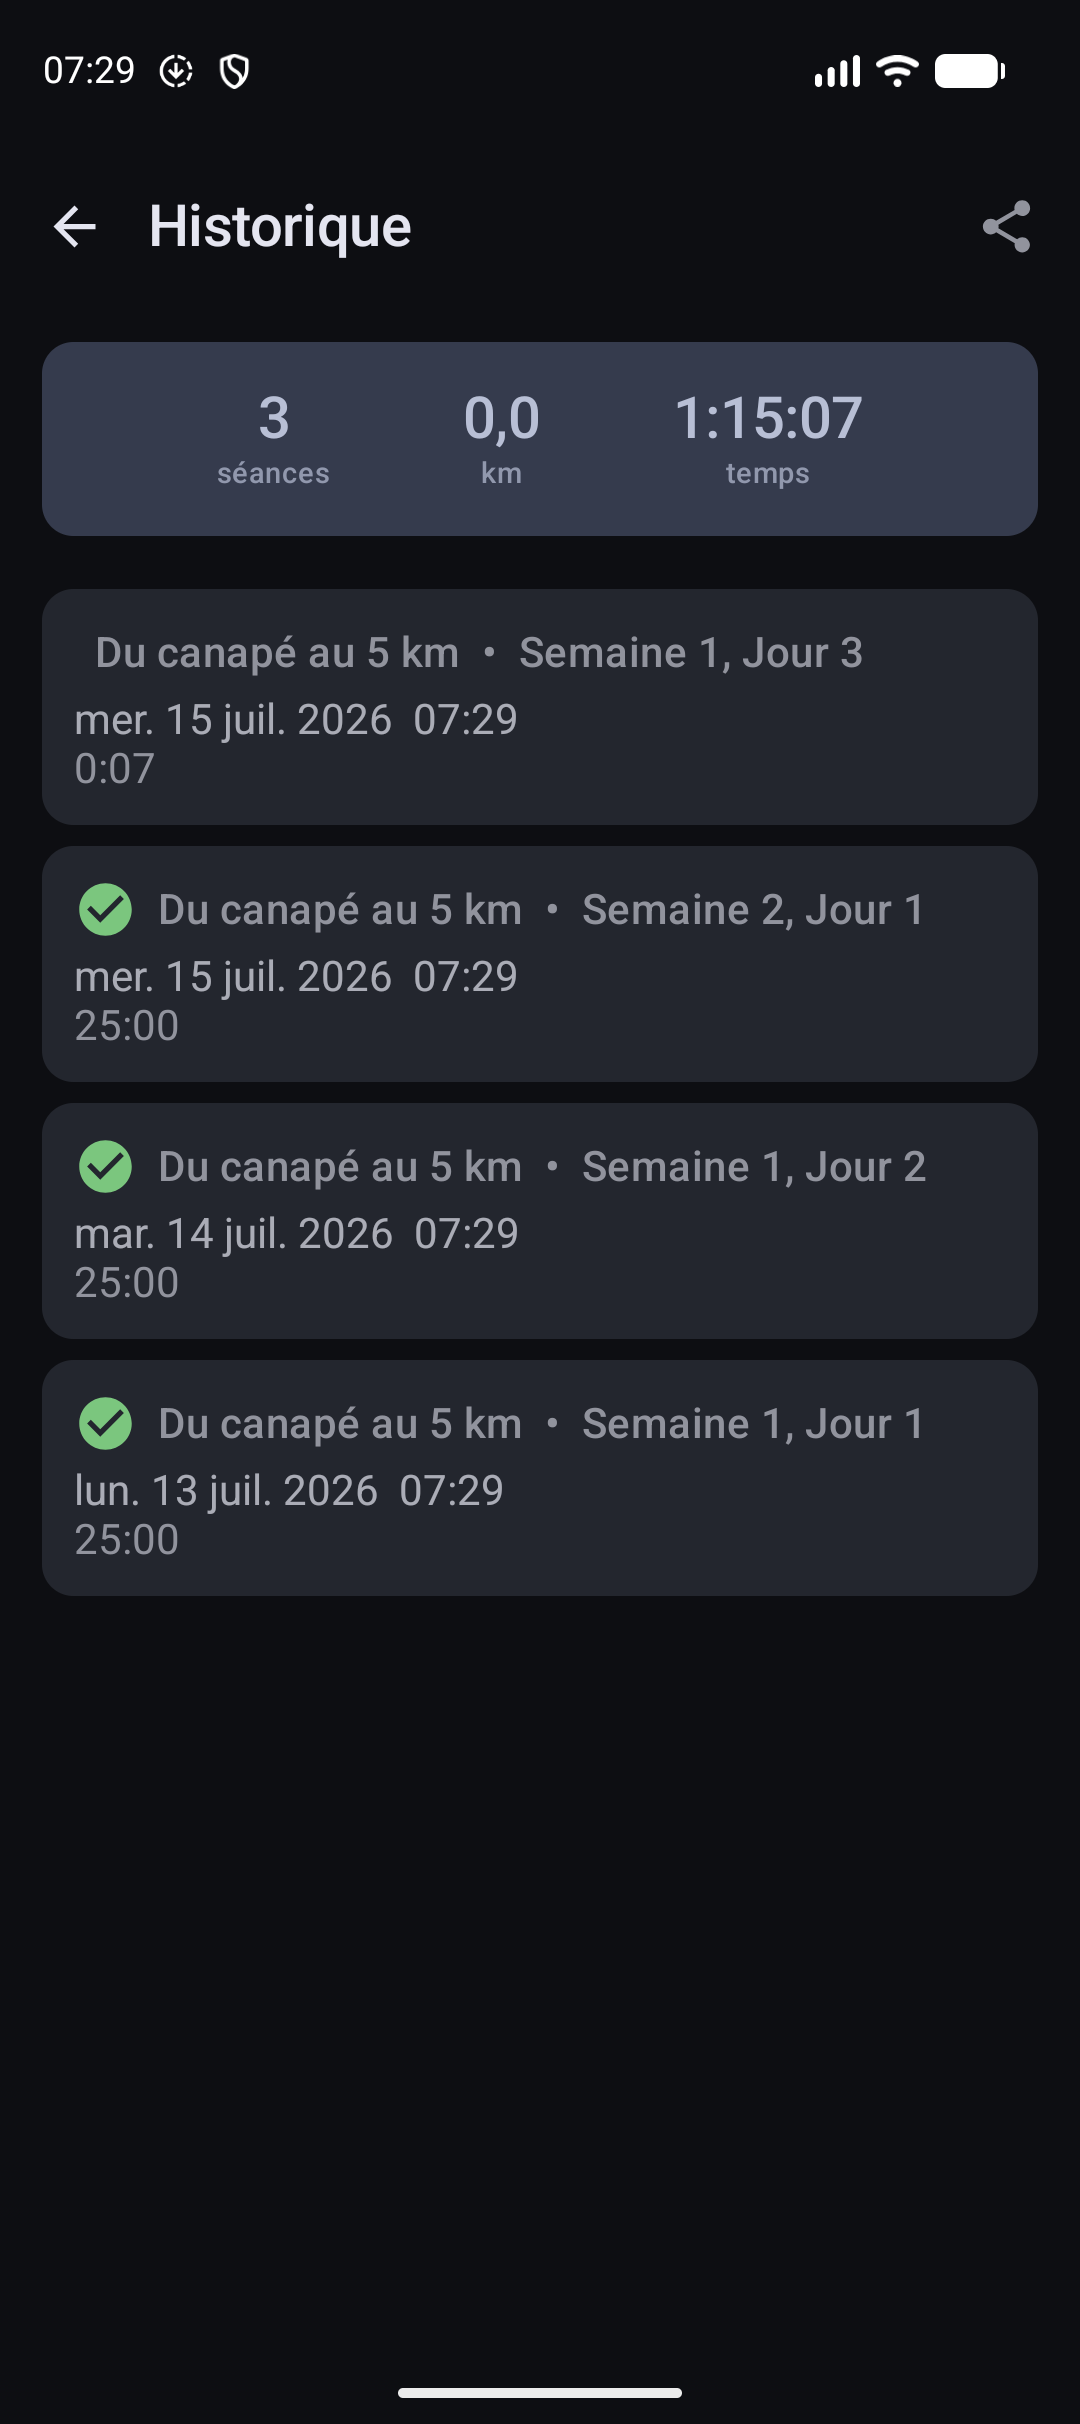
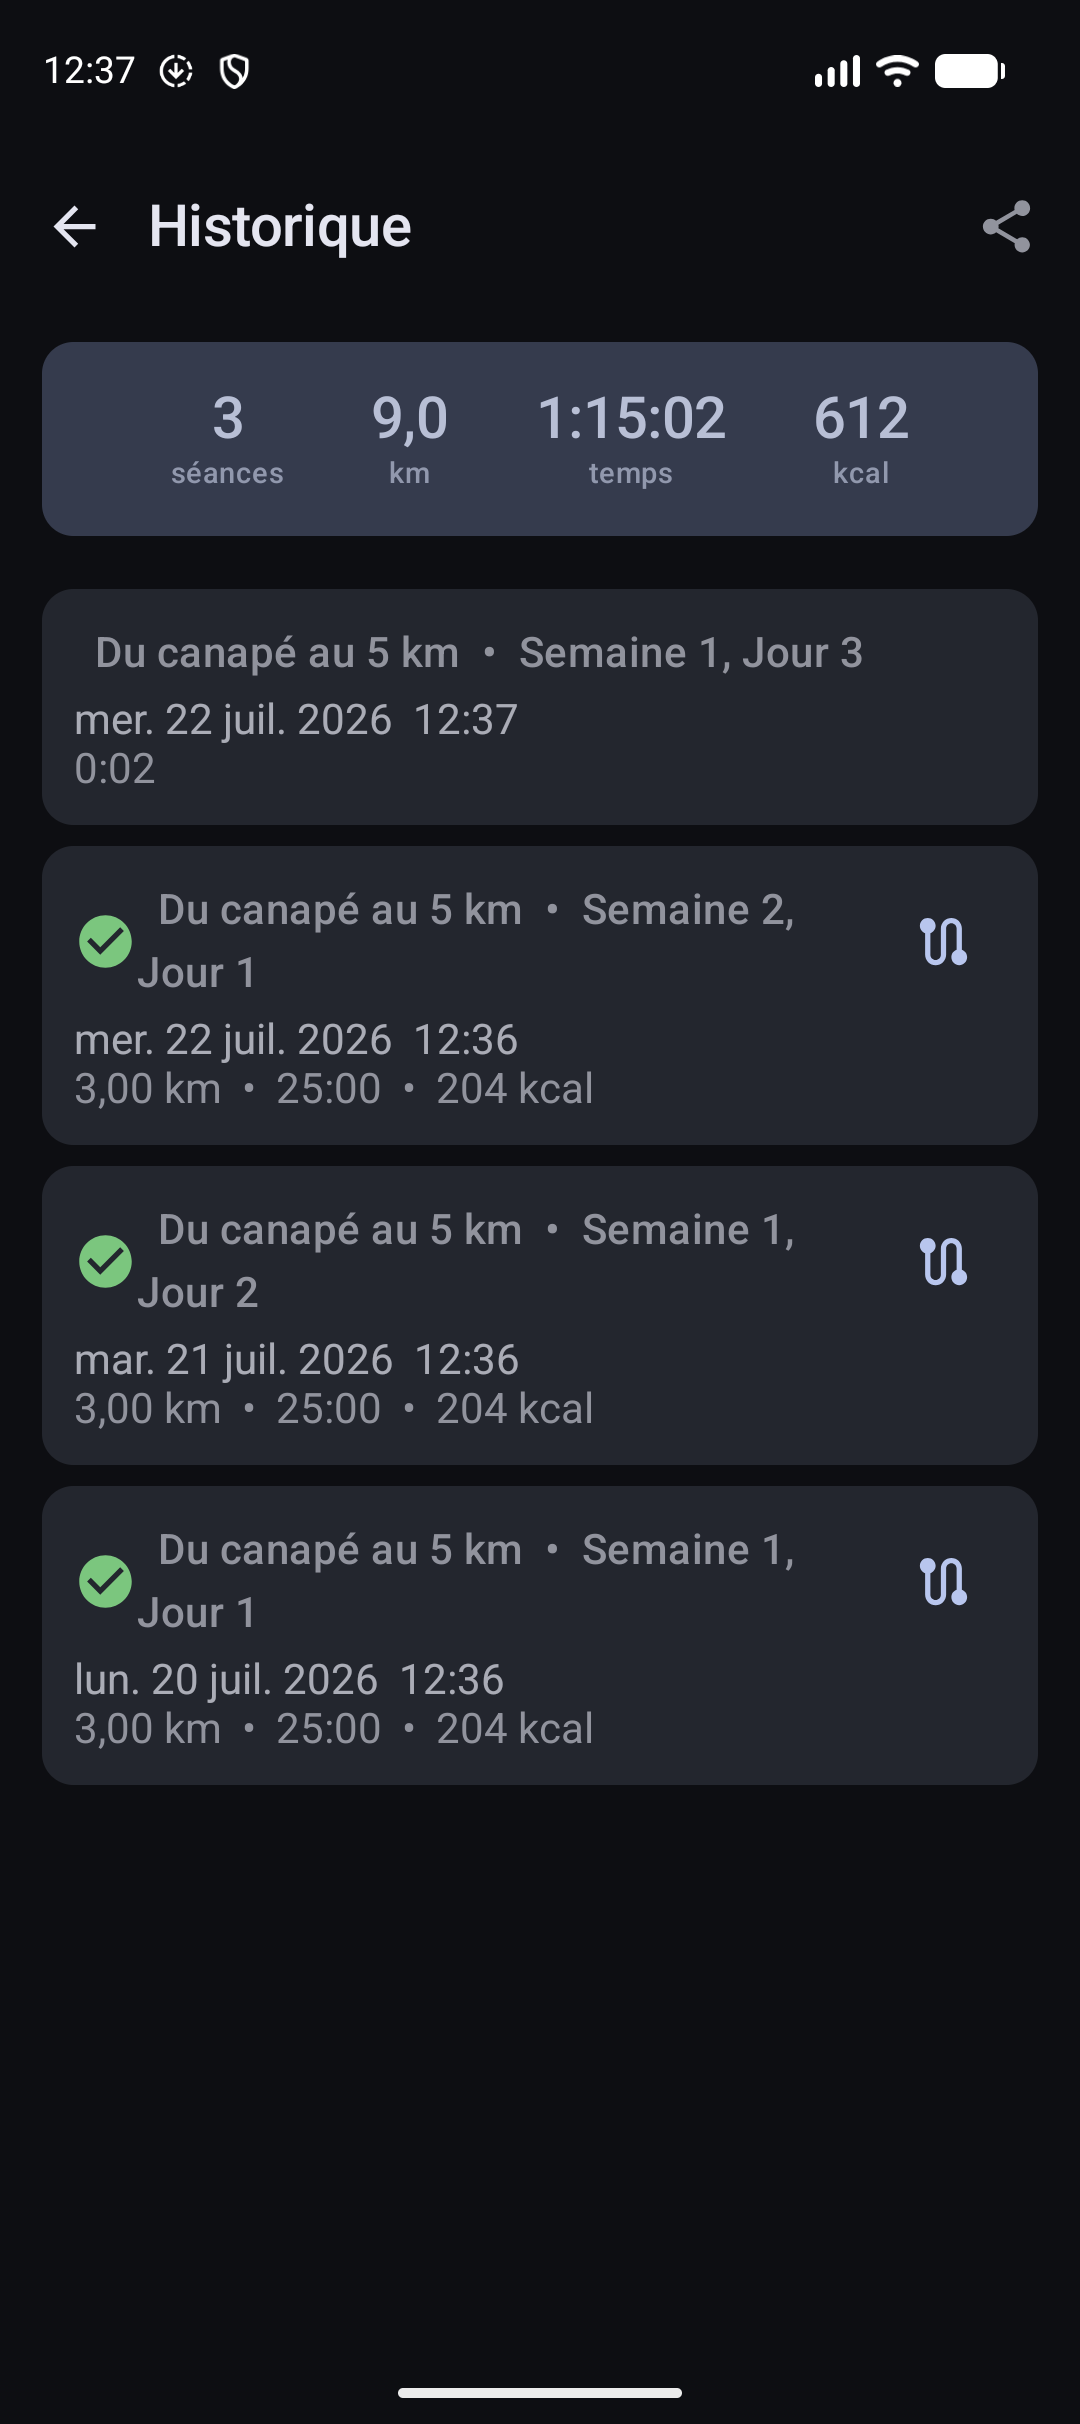
Recapture 05_history store screenshot for all locales
Seeds demo sessions with real distance and a fixed demo weight so the
new calories-burned feature shows up in the store screenshot (per-
session and aggregate kcal), instead of the treadmill-style zero-
distance sessions that predated it.

01-04, 06, and 07 were also regenerated by this run but discarded:
01_home hit pre-existing capture flakiness (blank frame for en-US,
missing streak banner for ru-RU) unrelated to this change, and
06/07 don't scroll far enough to reach the new guide entry or
weight field, so they only differed by the status-bar clock.

diff --git a/app/src/androidTest/kotlin/com/hackerapps/c2k/screenshots/ScreenshotTest.kt b/app/src/androidTest/kotlin/com/hackerapps/c2k/screenshots/ScreenshotTest.kt
@@ -16,6 +16,7 @@ import com.hackerapps.c2k.C2KApp
 import com.hackerapps.c2k.R
 import com.hackerapps.c2k.data.db.entity.WorkoutSessionEntity
 import com.hackerapps.c2k.data.prefs.UserPreferences
+import com.hackerapps.c2k.data.prefs.WeightUnit
 import com.hackerapps.c2k.ui.MainActivity
 import kotlinx.coroutines.flow.first
 import kotlinx.coroutines.runBlocking
@@ -102,12 +103,19 @@ class ScreenshotTest {
             // top of the workout screen the first time a workout starts, right where 04_workout
             // gets captured.
             prefs.setBatteryPromptDismissed()
+            // Pinned for the same reason as the countdown warnings above — without this, leftover
+            // weight/unit values from manual on-device testing bleed into 07_settings, and
+            // 05_history's calorie figures would be non-deterministic across runs.
+            prefs.setWeightKg(70f)
+            prefs.setWeightUnit(WeightUnit.KG)
             seedHistory()
         }
     }
 
     // A 3-day streak plus recent-workout history, while leaving Week 1 Day 3 uncompleted so
     // there's a natural "Start" (not "Redo") flow for the workout preview/active screenshots.
+    // distanceMeters is non-zero (unlike the treadmill mode used live in this test) so
+    // 05_history's km/pace and calorie figures have something real to display.
     private suspend fun seedHistory() {
         val now = System.currentTimeMillis()
         fun completedSession(week: Int, day: Int, daysAgo: Long) = WorkoutSessionEntity(
@@ -117,7 +125,7 @@ class ScreenshotTest {
             startedAt = now - daysAgo * MS_PER_DAY,
             completedAt = now - daysAgo * MS_PER_DAY + 25 * 60 * 1000,
             durationSeconds = 25 * 60,
-            distanceMeters = 0f,
+            distanceMeters = 3000f,
             completed = true
         )
         sessionDao().insert(completedSession(week = 1, day = 1, daysAgo = 2))
